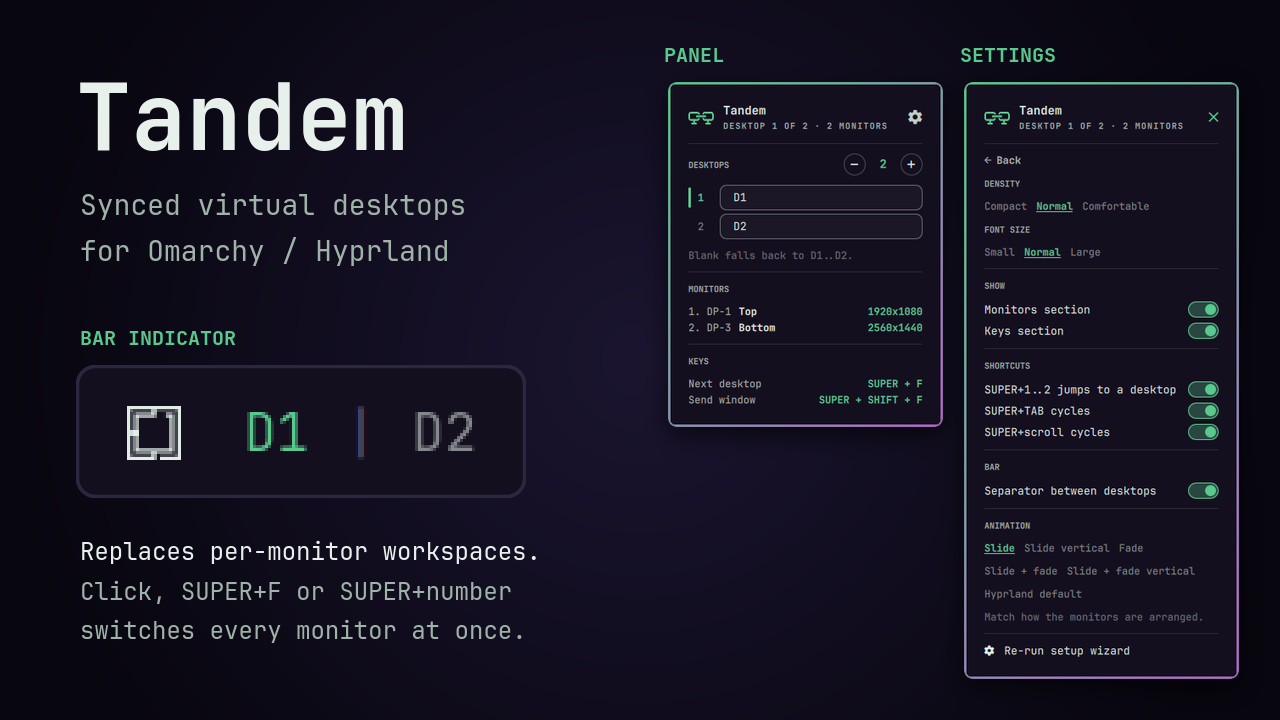
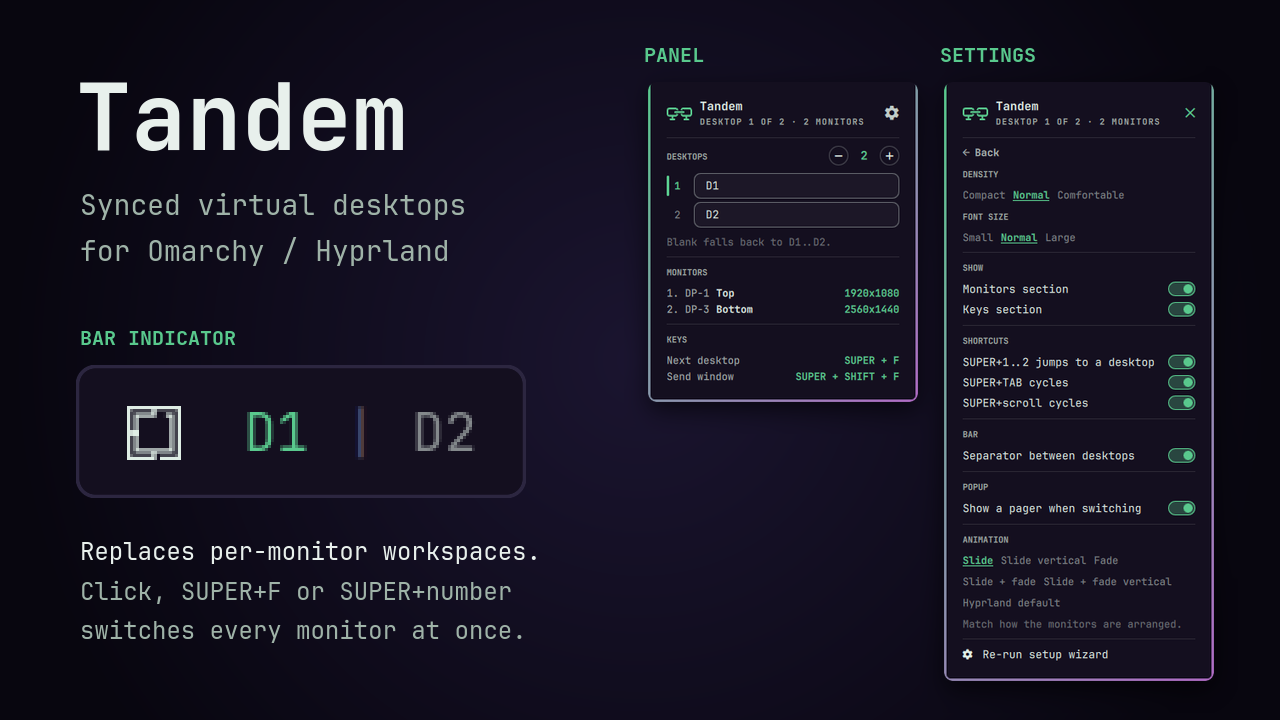
Document the pager popup and retake the screenshots

Changed region(s): [[0.5, 0.0611, 0.9688, 0.9472]]

diff --git a/README.md b/README.md
@@ -93,6 +93,11 @@ The ⚙ in the panel header opens its settings:
   keys sections. These save as you click.
 - A switch per key option — `SUPER+1..n`, `SUPER+TAB`, `SUPER+scroll` — and
   one for the `|` separator. Click anywhere on the row.
+- A **pager popup** switch, off by default: a small card in the middle of
+  each screen after a desktop switch. It has one square per desktop, named as
+  in the bar, with the current one marked and an arrow towards where you
+  went. It follows the animation — sideways for `slide`, up and down for
+  `slidevert`. It saves as you click.
 - The switching animation.
 - Re-run setup wizard.
 
@@ -128,6 +133,7 @@ BarWidget.qml     entry point; picks a role from its bar entry
 Indicator.qml     the D1/D2 indicator
 Settings.qml      the settings panel
 TandemIcon.qml    the two-monitor bar icon
+DesktopPopup.qml  the pager popup shown after a switch
 body.lua          the logic, hand-maintained
 tandem-apply      generates tandem.lua from settings, installs the loader
 tandem-setup      gum wizard; writes settings, then calls tandem-apply
@@ -165,7 +171,8 @@ bar hands a widget every key on its entry except `id`:
   "density":  "normal",
   "fontSize": "normal",
   "showMonitors": true,
-  "showKeys": true }
+  "showKeys": true,
+  "popup": false }
 ```
 
 - `monitors` — omit to autodetect, ordered top-to-bottom then left-to-right.
@@ -186,6 +193,7 @@ bar hands a widget every key on its entry except `id`:
   `normal` or `comfortable`, and `small`, `normal` or `large`. They change
   nothing in Hyprland or the bar.
 - `showMonitors` / `showKeys` — show the panel's MONITORS and KEYS sections.
+- `popup` — show the pager popup after a desktop switch. Off by default.
 
 `labels` and `separator` are cosmetic, so changing only those skips the
 Hyprland regenerate-and-reload.

diff --git a/NOTES.md b/NOTES.md
@@ -116,6 +116,24 @@ from the script its button runs.
 destination as the same directory: skip the copy, and never wipe the
 destination first, or it deletes itself mid-run.
 
+**Read live settings from `shell.json` with a watched `FileView`.** The bar
+injects a widget's settings only when it rebuilds the widget, so an injected
+value goes stale the moment the panel changes it. The desktop popup needs the
+animation style and its own on/off switch live, so `Indicator.qml` watches
+`~/.config/omarchy/shell.json` the way the shell does (`watchChanges: true`,
+`reload()` in `onFileChanged`) and reads the entry itself.
+
+**A bar widget can own an overlay window.** One `PanelWindow` per bar
+instance, with `screen` taken from `QsWindow.window.screen`, gives one popup
+per monitor. `WlrLayer.Overlay`, `keyboardFocus: None` and an empty `mask:
+Region {}` make it visual-only. It needs no manifest kind; plugin QML is not
+sandboxed.
+
+**Panel width has to follow the text, not just the spacing.** `Style.space`
+scales with the shell's base size but text does not scale the same way, so a
+width picked in spacing units truncates labels under another theme. Measure
+the longest label with `TextMetrics` and add `verticalContentInset`.
+
 **One plugin can supply two bar widgets.** A manifest declares a single
 `barWidget` entry point, but `allowMultiple: true` lets the same id appear
 twice in `shell.json`, and each entry's own keys reach the widget as
